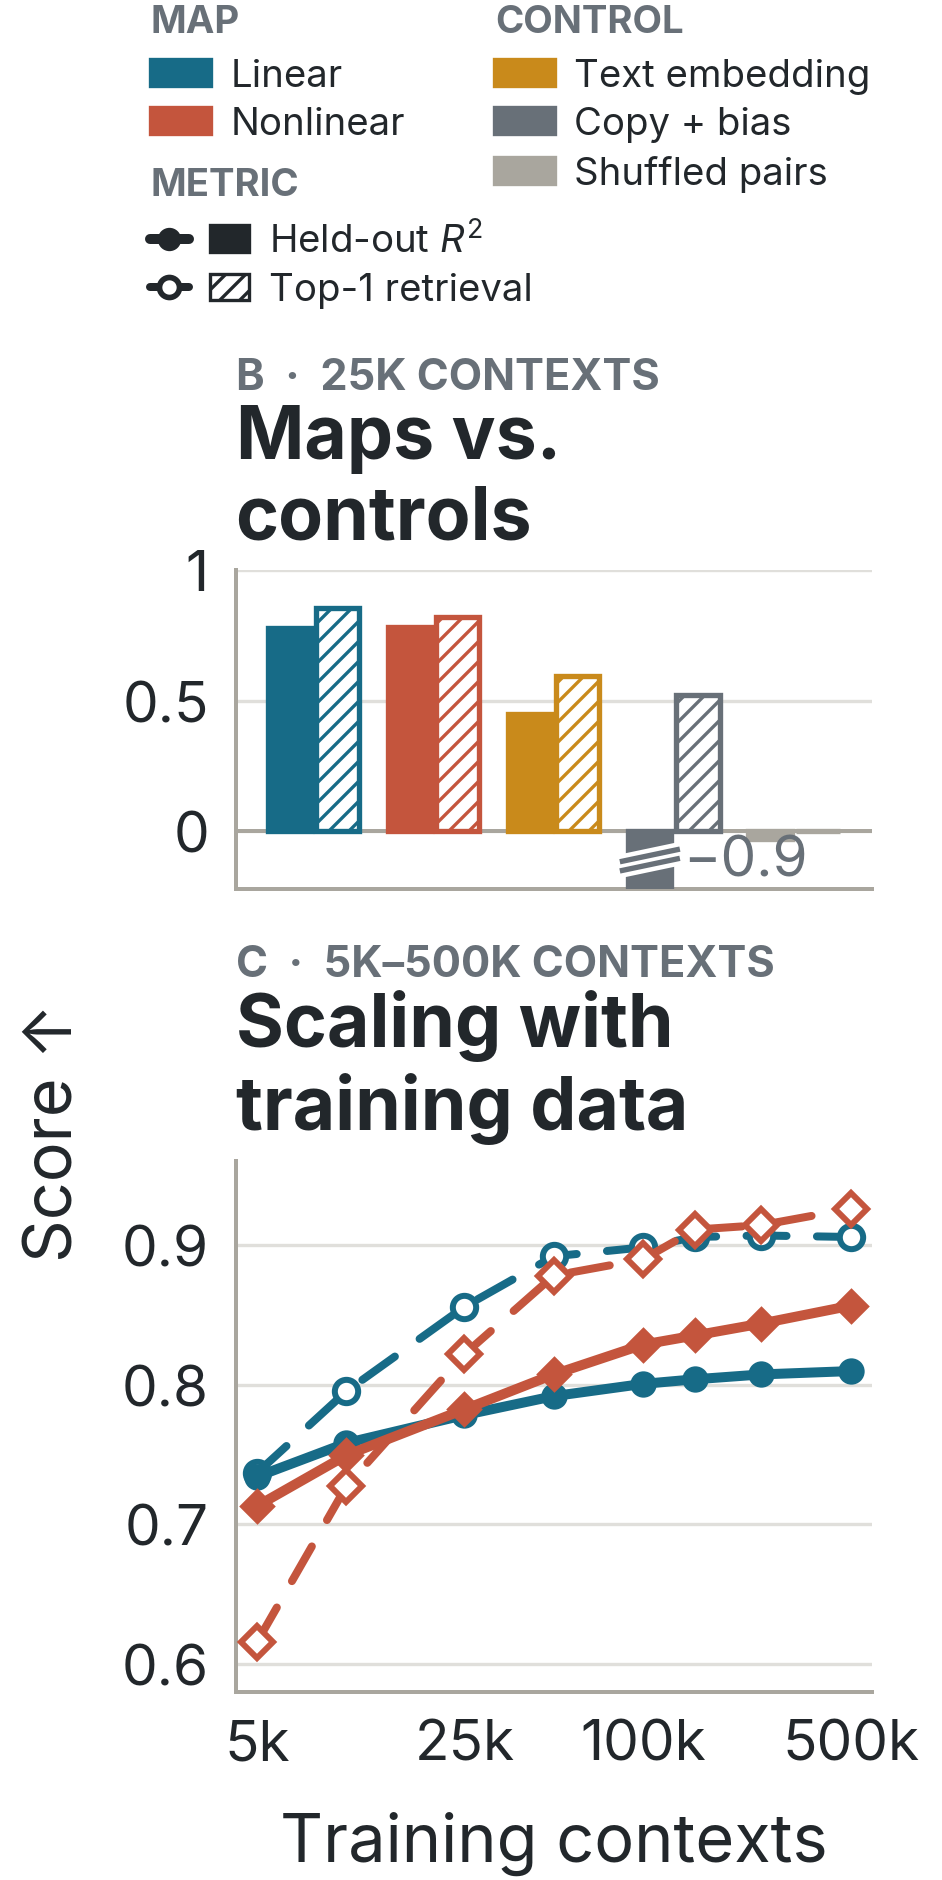
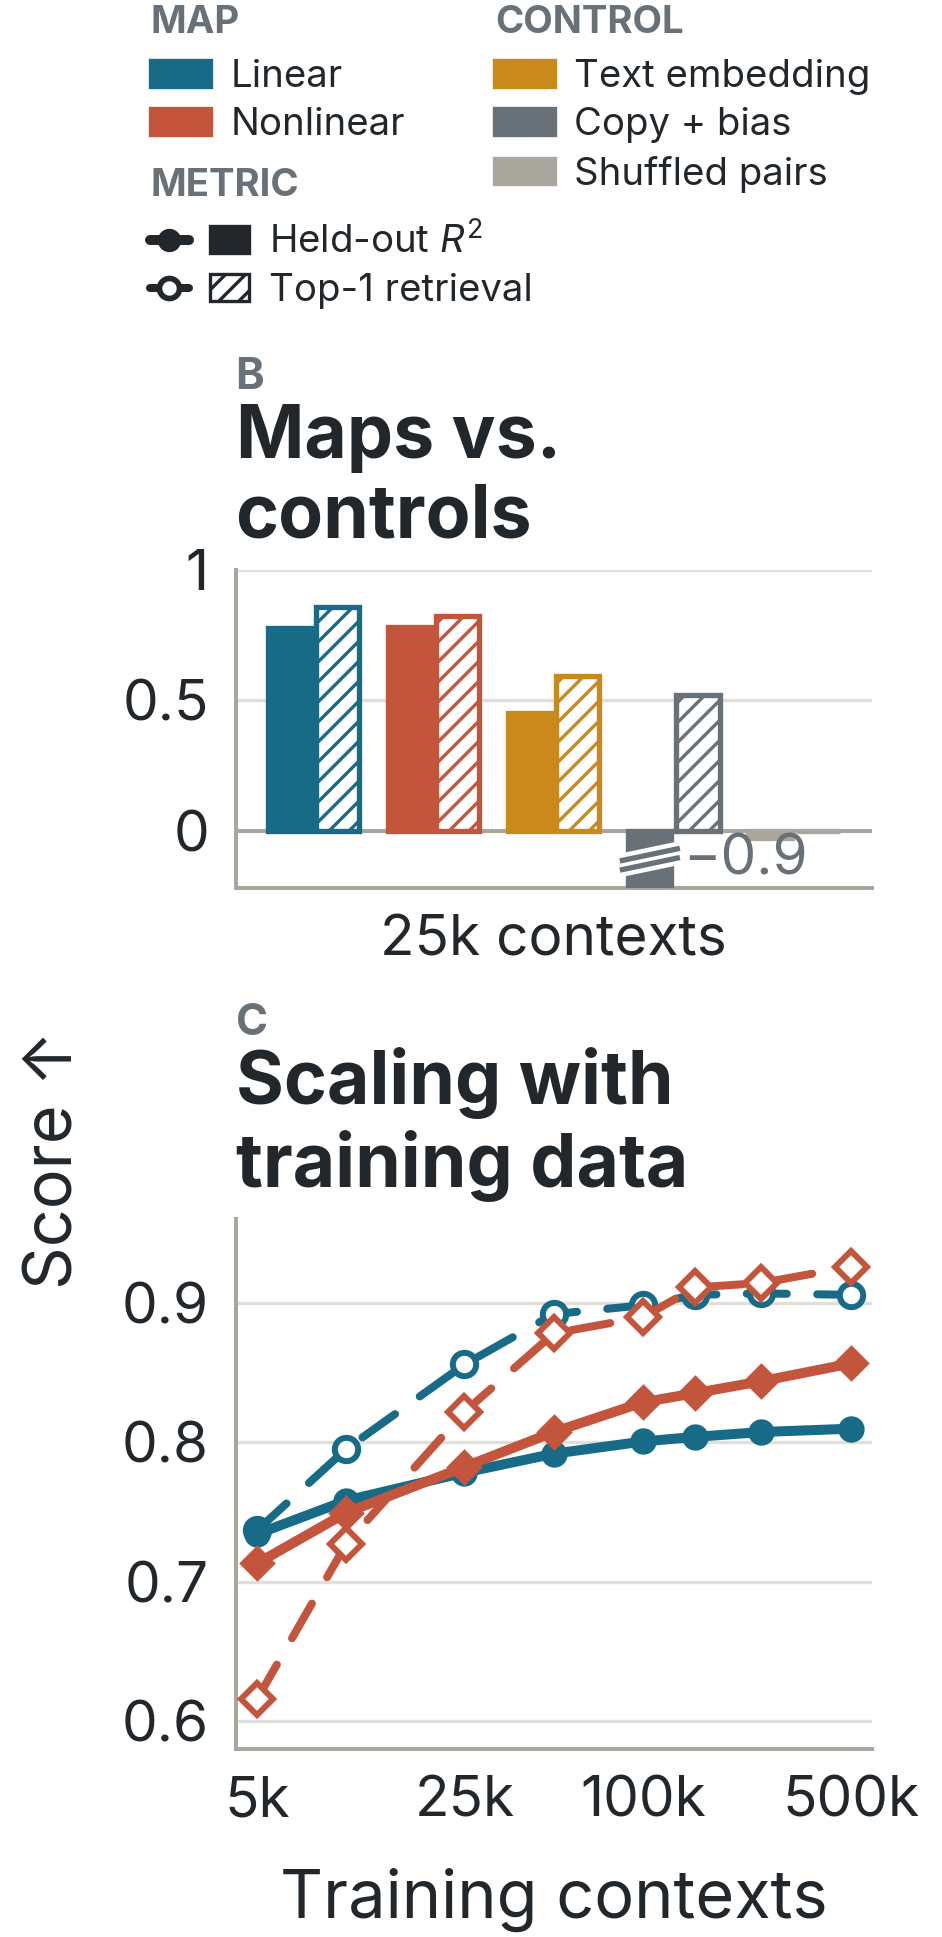
make_paper_figure2: move the Figure 1 training-context scope from the kickers to the x axes
The split column's kickers carried the training-context scope ('B · 25K
CONTEXTS', 'C · 5K–500K CONTEXTS'). C's repeated its own x axis, and B's
put a plotted condition in the header row. Both kickers are now the bare
panel letter, the form the paper uses when a panel has no condition to
state, and the rung the bars were read at is B's single centred x tick
label ('25k contexts'), set in the tick font C uses for its rungs.

Layout: the column grows from 1.90 to 1.96 times its width for B's tick
label row; the legend fractions are rescaled to the taller canvas so the
rows keep their printed spacing. The unused rung bounds in the split
branch are dropped.

Canonical assets regenerated with --panels bc: figures/paper/c1_controls_and_scaling.*

diff --git a/scripts/make_paper_figure2.py b/scripts/make_paper_figure2.py
@@ -706,7 +706,11 @@ def _plot_comparison_bars(
     # Bars grow from zero, so zero gets a seam.
     ax.axhline(0.0, color=SEAM, lw=1.2, zorder=3)
     ax.set_xlim(-0.65, len(arms) - 0.35)
-    ax.set_xticks([])
+    # One tick label under the group names the rung every bar was read at, in
+    # the tick font panel C uses for its own rungs; no tick mark.
+    ax.set_xticks([(len(arms) - 1) / 2.0])
+    ax.set_xticklabels([f"{_human_n(n_compare)} contexts"])
+    ax.tick_params(axis="x", length=0)
     return {
         "style": "bars",
         "n_compare": int(n_compare),
@@ -1105,9 +1109,9 @@ PANEL_LAYOUTS: dict[str, dict[str, object]] = {
         # ~2 in, and the minipage pair is vertically centred, so the schematic
         # sits mid-column.
         "width": "sliver",
-        "aspect": 1.90,
+        "aspect": 1.96,
         "letters": {"compare": "B", "scale": "C"},
-        "margins": {"left": 0.300, "right": 0.975, "top": 0.684, "bottom": 0.0576},
+        "margins": {"left": 0.300, "right": 0.975, "top": 0.694, "bottom": 0.0558},
         "legend_x": (0.300, 0.300),
         "ylabel_x": -0.235,
         "rows": {"plain": 0.985, "with_controls": 0.985, "baseline": 0.995},
@@ -1116,24 +1120,27 @@ PANEL_LAYOUTS: dict[str, dict[str, object]] = {
         "column_legend": True,
         "legend_cols": (0.210, 0.575),
         "legend_top": 0.990,
-        "legend_row": 0.0287,
-        "legend_head": 0.0202,
-        "legend_gap": 0.0134,
+        "legend_row": 0.0278,
+        "legend_head": 0.0196,
+        "legend_gap": 0.0130,
         "legend_fontsize": 11.5,
-        # Both panels carry the paper's two-row header: the grey kicker (letter
-        # plus training-context scope, "B · 25K CONTEXTS") over a bold two-line
-        # title stating what is plotted. Two lines because the column is too
-        # narrow for either title on one line at the paper's title size. The y
-        # values are axes fractions, so the shorter panel B needs the larger
-        # offsets to put its header at the same distance above the axes as C's.
+        # Both panels carry the paper's two-row header: the grey letter-only
+        # kicker over a bold two-line title stating what is plotted. Two lines
+        # because the column is too narrow for either title on one line at the
+        # paper's title size. The training-context scope lives on the x axes
+        # instead (B's single tick label, C's rung ticks), not in the kickers.
+        # The y values are axes fractions, so the shorter panel B needs the
+        # larger offsets to put its header at the same distance above the axes
+        # as C's.
         "compare_kicker_y": 1.54,
         "compare_title_y": 1.10,
         "scale_kicker_y": 1.33,
         "scale_title_y": 1.06,
         # Height of B relative to C, and the gap between them (gridspec hspace,
-        # a fraction of the mean panel height): the gap holds C's header.
+        # a fraction of the mean panel height): the gap holds B's tick label
+        # and C's header.
         "compare_height": 0.60,
-        "hspace": 0.64,
+        "hspace": 0.78,
         # One linear strip per panel, same tick formatter, no axis cut: B spans
         # a little below zero so an off-axis bar keeps a visible stub for its
         # break glyph; C keeps the focused range the split exists for.
@@ -1238,8 +1245,6 @@ def make_figure(
     # above the axes, so their content moves into the caption instead.
     bare = bool(spec.get("suppress_header", False))
     if draw_scale:
-        rung_lo = min(int(row["x"]) for row in scaling["rows"])
-        rung_hi = max(int(row["x"]) for row in scaling["rows"])
         _plot_panel(
             ax_scale,
             scaling["rows"],
@@ -1254,8 +1259,8 @@ def make_figure(
             show_retrieval=True,
             kicker_y=float(spec.get("scale_kicker_y", spec.get("kicker_y", 1.24))),  # type: ignore[arg-type]
             title_y=float(spec.get("scale_title_y", spec.get("title_y", 1.08))),  # type: ignore[arg-type]
-            # The split render's kickers share one shape: letter + context scope.
-            kicker=(f"{_human_n(rung_lo)}–{_human_n(rung_hi)} contexts" if draw_compare else None),
+            # Letter-only kicker: the x axis already names the rungs.
+            kicker=None,
         )
     roster = PANEL_B_BASELINE_ROSTERS[baselines_mode] if baselines is not None else ()
     # The baselines and the boundary control all live on panel B, so a
@@ -1283,10 +1288,12 @@ def make_figure(
         )
         # The kicker names the rung the maps are read at; when it differs from
         # the controls' rung the caption has to say so (overlay["matched"]).
+        # Letter-only kicker (the letter is passed AS the kicker so no separator
+        # dangles); the rung the bars were read at is B's own x tick label.
         panel_header(
             ax_compare,
+            "",
             letters["compare"] or "",
-            f"{_human_n(compare_n)} contexts",
             "Maps vs.\ncontrols",
             kicker_y=float(spec.get("compare_kicker_y", spec.get("kicker_y", 1.24))),  # type: ignore[arg-type]
             title_y=float(spec.get("compare_title_y", spec.get("title_y", 1.08))),  # type: ignore[arg-type]
@@ -1687,8 +1694,9 @@ def _write_outputs(
                             "top-1), stated once in the METRIC legend group; panel C draws the "
                             "scaling curves alone on the focused range recorded under "
                             "scale_ylim, with no control on it; both panels carry the paper's "
-                            "two-row header, a letter-plus-context-scope kicker over a "
-                            "two-line title stating what is plotted"
+                            "two-row header, a letter-only kicker over a two-line title "
+                            "stating what is plotted; the training-context count the bars "
+                            "were read at is B's single x tick label"
                         ),
                         "compare_ylim": list(PANEL_LAYOUTS["bc"]["compare_ylim"]),  # type: ignore[arg-type]
                         "scale_ylim": list(PANEL_LAYOUTS["bc"]["scale_ylim"]),  # type: ignore[arg-type]
